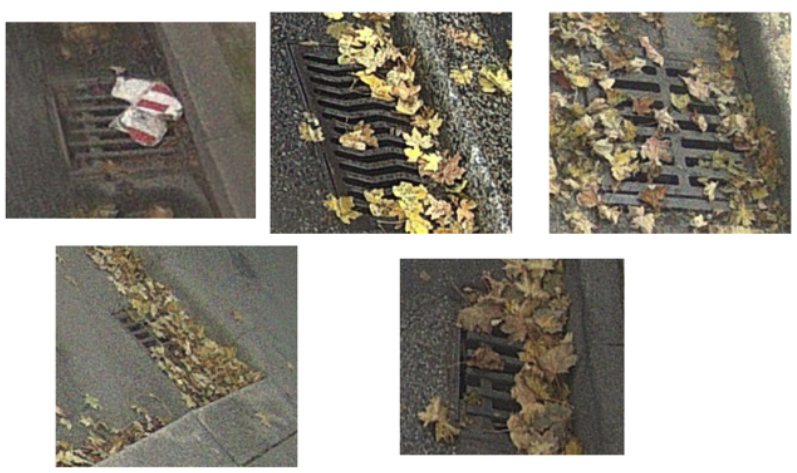
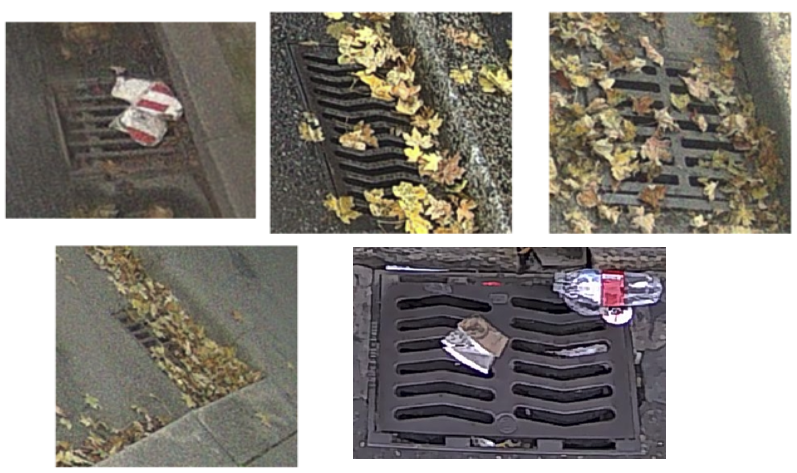
added more examples

Changed region(s): [[0.4216, 0.5032, 0.8432, 0.9767]]

diff --git a/html_pages/bins and dumpsters.html b/html_pages/bins and dumpsters.html
@@ -76,7 +76,8 @@
         <p>Ring bag bin full of waste or overflowing with waste.</p>
       </div>
     </div>
-    <h3 style="text-align: center;">No examples yet</h3>
+    <h3 style="text-align: center;">Real life examples</h3>
+    <img src="assets/overflowing_ring_and_bag_bin_1.png" alt="Big Image" class="big-image">
   </div>
 </br>
 </body>

diff --git a/html_pages/drain or sewer grate.html b/html_pages/drain or sewer grate.html
@@ -34,6 +34,7 @@
     </div>
     <h3 style="text-align: center;">Real life example</h3>
     <img src="assets/obstructed_grate_2.jpeg" alt="Big Image" class="big-image">
+    <img src="assets/obstructed_grate_3.png" alt="Big Image" class="big-image">
   </div>
 </br>
 </body>

diff --git a/html_pages/curb inlet.html b/html_pages/curb inlet.html
@@ -32,6 +32,7 @@
     </div>
     <h3 style="text-align: center;">Real life example</h3>
     <img src="assets/curb_inlet_3.jpg" alt="Big Image" class="big-image">
+    <img src="assets/curb_inlet_5.png" alt="Big Image" class="big-image">
   </div>
 </br>
 </body>
